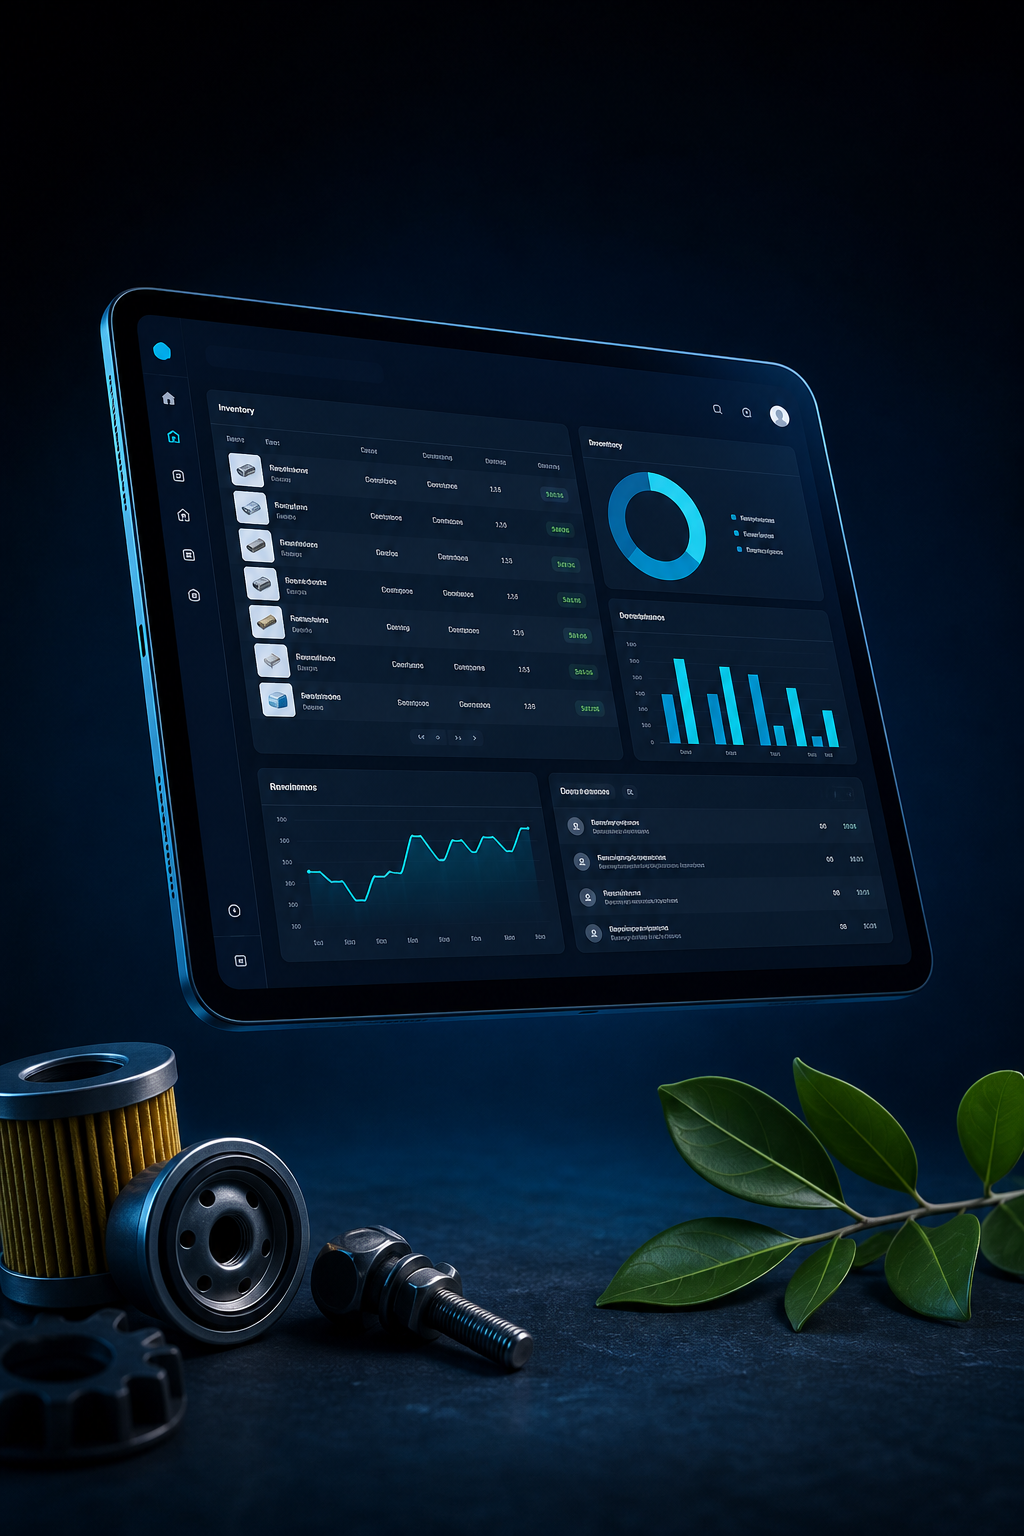
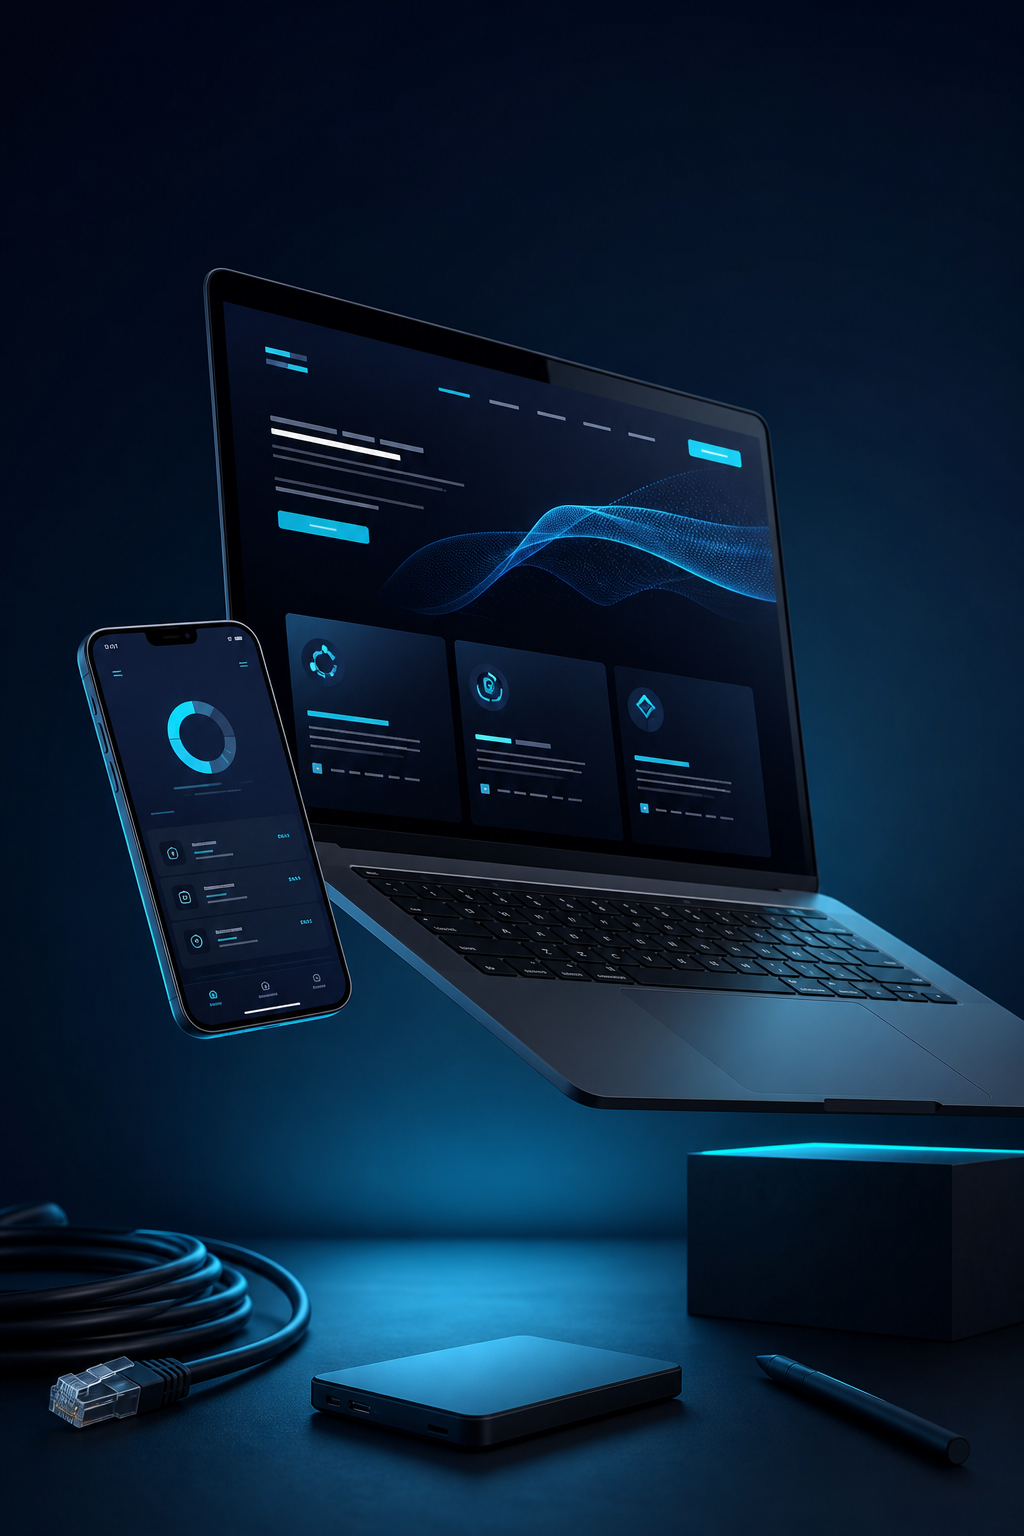
Reposition Sisoft as an IT services company site.
Update copy and hero imagery for equipment repair, websites, apps, design, networking and support.

diff --git a/public/index.html b/public/index.html
@@ -5,9 +5,9 @@
     <meta name="viewport" content="width=device-width, initial-scale=1" />
     <meta
       name="description"
-      content="Sisoft — sistema de gestão para armazém, obras de oficina, cotações e faturação."
+      content="Sisoft — informática: reparação de equipamentos, criação de sites e apps, design, redes e mais."
     />
-    <title>Sisoft — Gestão de oficina e stock</title>
+    <title>Sisoft — Informática, sites, apps e redes</title>
     <meta name="application-name" content="Sisoft" />
     <link rel="icon" href="/favicon.ico" sizes="any" />
     <link rel="icon" href="/assets/logo.svg" type="image/svg+xml" />
@@ -32,7 +32,7 @@
         </a>
         <nav aria-label="Principal">
           <ul class="nav-links">
-            <li><a href="#modulos">Módulos</a></li>
+            <li><a href="#servicos">Serviços</a></li>
             <li><a href="#porque">Porquê</a></li>
             <li><a href="#contacto">Contacto</a></li>
             <li><a class="btn btn-signal" href="/login.html">Entrar</a></li>
@@ -47,32 +47,32 @@
         <div class="wrap hero-grid">
           <div class="hero-copy">
             <p class="brand-mark" aria-label="Sisoft">Sisoft</p>
-            <h1>Stock, oficina e faturação sob o mesmo tecto.</h1>
+            <h1>Informática completa para a sua empresa e o seu dia a dia.</h1>
             <p class="hero-lead">
-              O Sisoft organiza armazém, obras de oficina, cotações, facturas e a equipa — com
-              controlo claro no dia a dia.
+              Reparação de equipamentos, criação de sites e apps, design, redes e suporte técnico —
+              soluções práticas com acompanhamento próximo.
             </p>
 
             <div class="hero-features">
               <article class="hero-feature">
                 <div class="hero-feature-icon" aria-hidden="true">01</div>
-                <h3>Armazém & inventário</h3>
-                <p>Entradas, saídas e stock actualizado para saber o que tem e o que falta.</p>
+                <h3>Reparação</h3>
+                <p>Computadores, portáteis e equipamentos — diagnóstico e manutenção.</p>
               </article>
               <article class="hero-feature">
                 <div class="hero-feature-icon" aria-hidden="true">02</div>
-                <h3>Obras & requisições</h3>
-                <p>Registe veículos em serviço e peça materiais do armazém com histórico.</p>
+                <h3>Sites & apps</h3>
+                <p>Criação de websites e aplicações à medida do seu negócio.</p>
               </article>
               <article class="hero-feature">
                 <div class="hero-feature-icon" aria-hidden="true">03</div>
-                <h3>Cotações & facturas</h3>
-                <p>Crie propostas, emita facturas e mantenha o histórico financeiro organizado.</p>
+                <h3>Design & rede</h3>
+                <p>Identidade visual, redes locais e ligação estável para a equipa.</p>
               </article>
             </div>
 
             <div class="hero-cta">
-              <a class="btn btn-signal" href="/login.html">Aceder ao sistema</a>
+              <a class="btn btn-signal" href="#contacto">Pedir orçamento</a>
             </div>
           </div>
 
@@ -98,45 +98,62 @@
         </div>
       </section>
 
-      <section class="section" id="modulos">
+      <section class="section" id="servicos">
         <div class="wrap">
           <div class="section-head reveal">
-            <h2>Tudo o que a oficina precisa</h2>
+            <h2>Serviços de informática</h2>
             <p>
-              Módulos pensados para quem gere peças, veículos em serviço e clientes sem perder o
-              rasto.
+              Da reparação ao digital: a Sisoft cobre o que precisa para trabalhar com tecnologia
+              sem complicação.
             </p>
           </div>
           <div class="modules">
             <article class="module reveal">
               <span class="module-index">01</span>
-              <h3>Armazém & inventário</h3>
-              <p>Entradas, saídas e stock actualizado para saber o que tem e o que falta.</p>
+              <h3>Reparação de equipamentos</h3>
+              <p>
+                Computadores, portáteis, impressoras e periféricos — diagnóstico, reparação e
+                manutenção preventiva.
+              </p>
             </article>
             <article class="module reveal">
               <span class="module-index">02</span>
-              <h3>Obras & requisições</h3>
-              <p>Registe veículos em serviço e peça materiais do armazém com histórico.</p>
+              <h3>Criação de sites</h3>
+              <p>
+                Sites institucionais, landing pages e lojas online com design claro e fácil de
+                actualizar.
+              </p>
             </article>
             <article class="module reveal">
               <span class="module-index">03</span>
-              <h3>Cotações & facturas</h3>
-              <p>Crie propostas, emita facturas e mantenha o histórico financeiro organizado.</p>
+              <h3>Apps e sistemas</h3>
+              <p>
+                Aplicações e sistemas à medida para organizar processos, clientes e operações do
+                negócio.
+              </p>
             </article>
             <article class="module reveal">
               <span class="module-index">04</span>
-              <h3>Clientes & fornecedores</h3>
-              <p>Cadastro centralizado com contactos, documentos e notas da relação comercial.</p>
+              <h3>Design</h3>
+              <p>
+                Identidade visual, logótipos, materiais digitais e interfaces alinhadas à sua
+                marca.
+              </p>
             </article>
             <article class="module reveal">
               <span class="module-index">05</span>
-              <h3>Diário & relatórios</h3>
-              <p>Movimentos do dia e relatórios PDF para decisões com base em dados.</p>
+              <h3>Redes e infraestrutura</h3>
+              <p>
+                Instalação e configuração de redes, Wi-Fi, partilha de ficheiros e acesso seguro
+                na empresa.
+              </p>
             </article>
             <article class="module reveal">
               <span class="module-index">06</span>
-              <h3>Equipa & chat</h3>
-              <p>Utilizadores, sessões activas e mensagens internas com confirmação de leitura.</p>
+              <h3>Suporte e outros</h3>
+              <p>
+                Instalação de software, backup, segurança, consultoria e apoio técnico contínuo.
+              </p>
             </article>
           </div>
         </div>
@@ -145,32 +162,32 @@
       <section class="section why" id="porque">
         <div class="wrap why-grid">
           <div class="why-copy reveal">
-            <h2>Feito para o ritmo da oficina</h2>
+            <h2>Tecnologia com acompanhamento real</h2>
             <p>
-              Menos folhas dispersas, mais visão. O Sisoft junta armazém, obras e faturação para a
-              equipa trabalhar com a mesma informação.
+              Explicamos o problema, propomos a solução e acompanhamos a implementação — para a
+              sua equipa ficar a trabalhar sem interrupções.
             </p>
             <ul class="why-list">
-              <li>Acesso local ou na rede da empresa</li>
-              <li>Controlo por perfil (CEO e utilizadores)</li>
-              <li>Recuperação de senha por email ou SMS</li>
-              <li>Relatórios prontos para imprimir ou arquivar</li>
+              <li>Atendimento próximo e linguagem simples</li>
+              <li>Orçamentos claros antes de avançar</li>
+              <li>Soluções à medida do seu espaço e orçamento</li>
+              <li>Suporte depois da entrega</li>
             </ul>
           </div>
-          <aside class="panel reveal" aria-label="Indicadores ilustrativos">
-            <p class="panel-label">Visão operacional</p>
+          <aside class="panel reveal" aria-label="Áreas de actuação">
+            <p class="panel-label">Áreas de actuação</p>
             <div class="meter">
               <div class="meter-row">
-                <span>Stock monitorizado <strong>92%</strong></span>
+                <span>Reparação & manutenção <strong>Hardware</strong></span>
                 <div class="bar"><i style="--w: 92%"></i></div>
               </div>
               <div class="meter-row">
-                <span>Obras activas <strong>78%</strong></span>
-                <div class="bar"><i style="--w: 78%"></i></div>
+                <span>Sites, apps & design <strong>Digital</strong></span>
+                <div class="bar"><i style="--w: 88%"></i></div>
               </div>
               <div class="meter-row">
-                <span>Facturas em dia <strong>86%</strong></span>
-                <div class="bar"><i style="--w: 86%"></i></div>
+                <span>Redes & suporte <strong>Infra</strong></span>
+                <div class="bar"><i style="--w: 84%"></i></div>
               </div>
             </div>
           </aside>
@@ -181,9 +198,12 @@
         <div class="wrap">
           <div class="cta-box reveal">
             <h2>Pronto para pôr a Sisoft a trabalhar consigo?</h2>
-            <p>Entre no sistema ou fale connosco para activar a sua instalação.</p>
+            <p>
+              Fale connosco para reparação, site, app, design, rede ou outro serviço de
+              informática.
+            </p>
             <div class="cta-actions">
-              <a class="btn btn-signal" href="/login.html">Entrar no Sisoft</a>
+              <a class="btn btn-signal" href="mailto:sisoftcenter@gmail.com">Pedir orçamento</a>
               <a class="btn btn-ghost" href="mailto:sisoftcenter@gmail.com">sisoftcenter@gmail.com</a>
             </div>
           </div>

diff --git a/public/login.html b/public/login.html
@@ -3,7 +3,7 @@
   <head>
     <meta charset="UTF-8" />
     <meta name="viewport" content="width=device-width, initial-scale=1" />
-    <meta name="description" content="Entrar no Sisoft — sistema de gestão empresarial." />
+    <meta name="description" content="Entrar no Sisoft — área reservada." />
     <title>Entrar — Sisoft</title>
     <meta name="application-name" content="Sisoft" />
     <link rel="icon" href="/favicon.ico" sizes="any" />
